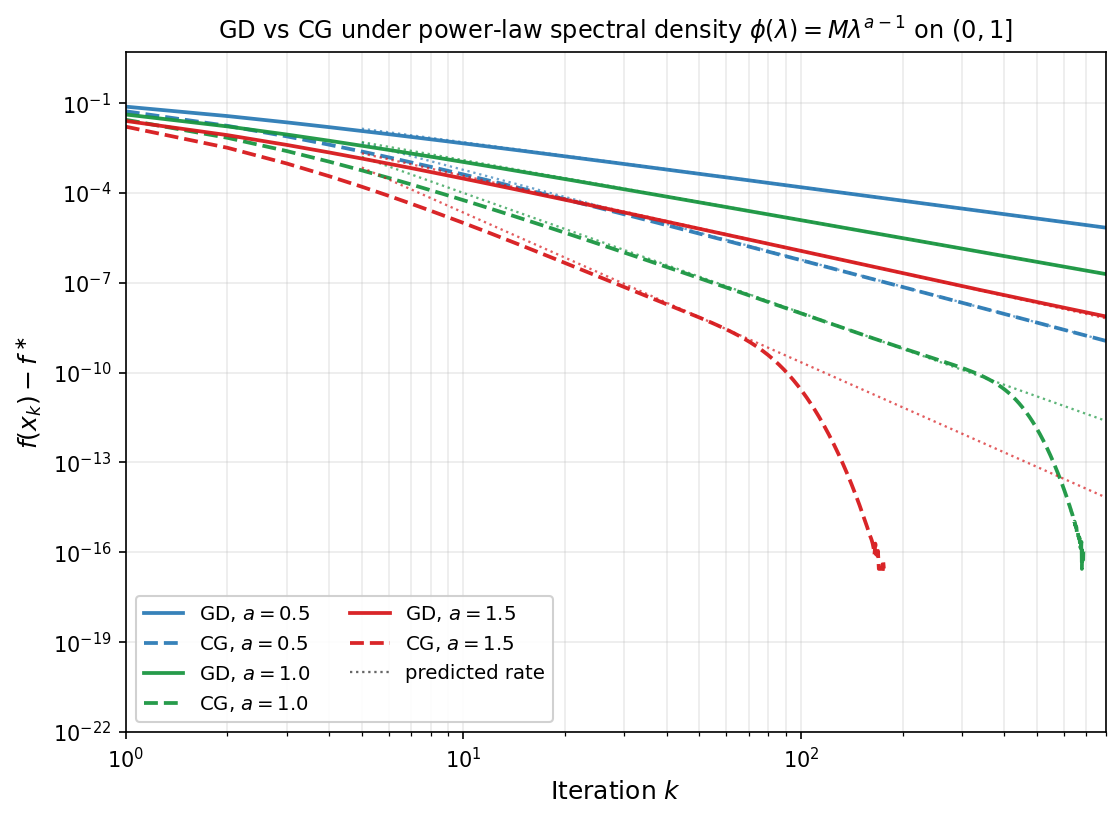
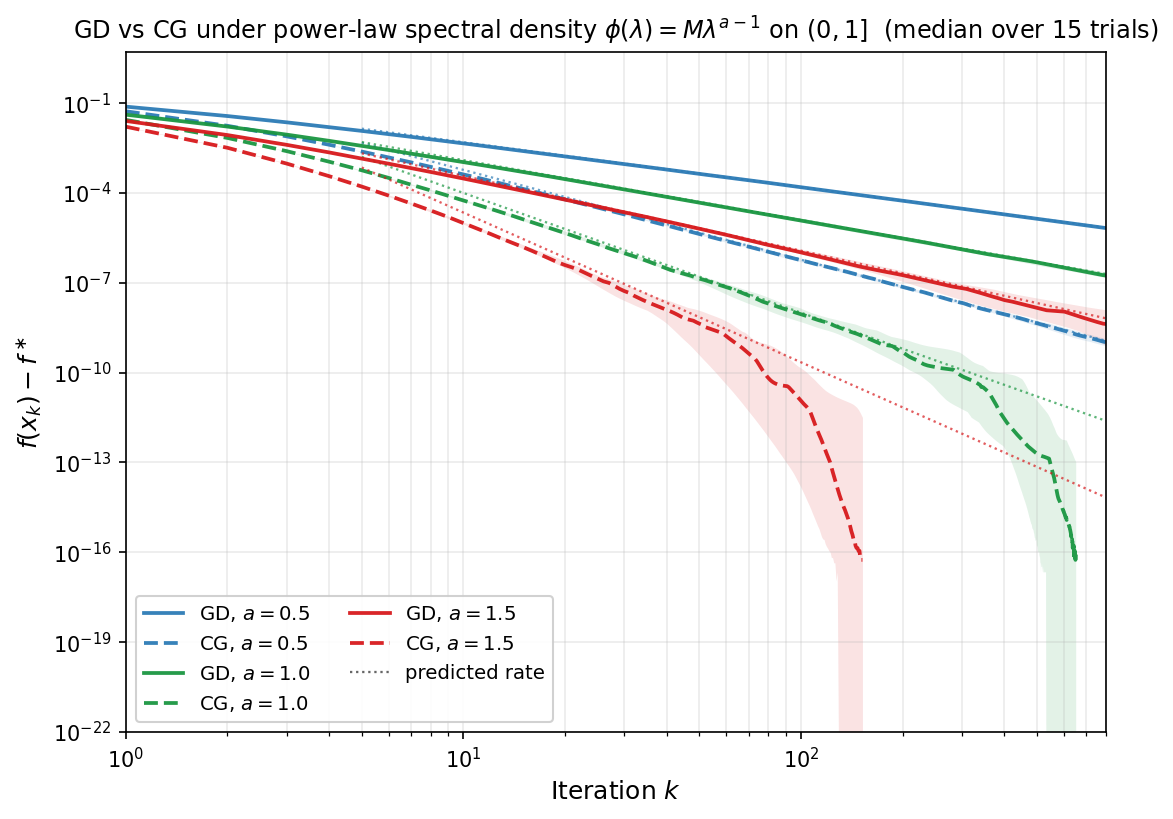
Add median and 10-90% ribbons to power-law convergence figure
Randomise the diagonal problem per trial (eigenvalues iid from phi/integral(phi),
isotropic Gaussian coefficients normalised so the discrete spectral measure
converges to phi(lambda) dlambda in expectation), aggregate over 15 trials,
and plot the median with an interquantile band matching the Marchenko-Pastur
gamma=1 figure. GD bands remain near-invisible (self-averaging) while CG
bands widen in the tail, mirroring the MP critical-case behaviour.

Made-with: Cursor

diff --git a/scripts/plot_convergence_powerlaw.py b/scripts/plot_convergence_powerlaw.py
@@ -10,14 +10,19 @@ several exponents a, overlaid with the predicted asymptotic rates
     GD:  E_k ~ M Gamma(a+1) beta^{a+1} / (2 (2k)^{a+1})            (Thm 7.2)
     CG:  E_k ~ M Gamma(a+1) Gamma(a+2) beta^{a+1} / (2 k^{2(a+1)}) (Thm 7.6)
 
-Setup. We work with a diagonal A = diag(lambda_1, ..., lambda_d) where the
-eigenvalues lambda_i are the (i - 1/2)/d quantiles of the density
-phi(lambda)/integral(phi) on (0, beta] (so the empirical eigenvalue
-distribution is the natural quantile discretisation of the density), and
-initial error coordinates c_i are chosen so that the discrete spectral
-measure sum_i c_i^2 delta_{lambda_i} is the Riemann sum approximation of
-phi(lambda) d lambda. Concretely we take c_i^2 = phi(lambda_i) * w_i where
-w_i is the local quantile width.
+Setup. For each trial we draw a fresh diagonal problem in the eigenbasis:
+
+  * Eigenvalues lambda_i are sampled iid from the density rho = phi/integral(phi)
+    on (0, beta]; concretely lambda_i = beta * U_i^{1/a} for U_i ~ Uniform(0,1).
+  * Initial-error coordinates c_i are sampled iid as c_i = sigma * xi_i with
+    xi_i ~ N(0, 1) and sigma^2 = M * beta^a / (a * d). This normalisation is
+    chosen so that for every continuous test function g,
+        E[sum_i c_i^2 g(lambda_i)] = integral M lambda^{a-1} g(lambda) dlambda,
+    matching the Riemann discretisation used by the deterministic version of
+    this experiment.
+
+We then plot the median curve over n_trials draws and shade the 10%-90%
+interquantile band (same convention as the MP gamma=1 figure).
 """
 
 from __future__ import annotations
@@ -36,33 +41,31 @@ FIGURES_DIR = Path(__file__).resolve().parent.parent / "figures"
 FIGURES_DIR.mkdir(exist_ok=True)
 
 
-def build_powerlaw_problem(a: float, beta: float, d: int, M: float = 1.0):
+def sample_powerlaw_problem(
+    a: float,
+    beta: float,
+    d: int,
+    rng: np.random.Generator,
+    M: float = 1.0,
+):
     """
-    Build A = diag(lambda) and an initial error e0 (in eigenbasis = standard
-    basis) such that the discrete spectral measure sum c_i^2 delta_{lambda_i}
-    is the natural Riemann discretisation of phi(lambda) = M lambda^{a-1} on
-    (0, beta].
+    Sample one random diagonal problem in the eigenbasis with the prescribed
+    power-law spectral error density phi(lambda) = M lambda^{a-1} on (0, beta].
 
-    Eigenvalues placed at quantiles of phi/integral(phi) (which has CDF
-    F(lambda) = (lambda/beta)^a). Quantile widths w_i used to weight c_i^2
-    so that sum c_i^2 g(lambda_i) -> integral M lambda^{a-1} g(lambda) d lambda
-    for any continuous g.
+    Eigenvalues are drawn iid from rho = phi/integral(phi) (CDF
+    F(lambda) = (lambda/beta)^a, inverse CDF lambda = beta * u^{1/a}).
+    Coefficients c_i are drawn iid Gaussian with variance M beta^a / (a d), so
+    that the discrete spectral measure sum_i c_i^2 delta_{lambda_i} converges
+    in expectation to phi(lambda) d lambda as d -> infinity.
     """
     if a <= 0:
         raise ValueError("Use a > 0 so that integral(phi) is finite.")
 
-    # Use cell-centre quantiles u_i = (i - 1/2)/d of the CDF F(lambda) =
-    # (lambda/beta)^a. Inverse CDF gives lambda_i = beta * u_i^{1/a}.
-    u = (np.arange(1, d + 1) - 0.5) / d
+    u = rng.uniform(size=d)
     lam = beta * u ** (1.0 / a)
 
-    # Cell edges u_{i-1} = (i-1)/d, u_i = i/d so that widths w_i = lambda_i^{up}
-    # - lambda_i^{lo} match the Riemann sum normalisation:
-    #   sum_i M lambda_i^{a-1} (lambda_i^{up} - lambda_i^{lo})  ~ integral phi.
-    edges = beta * (np.arange(d + 1) / d) ** (1.0 / a)
-    widths = np.diff(edges)
-    c_sq = M * lam ** (a - 1.0) * widths
-    c = np.sqrt(c_sq)
+    sigma2 = M * beta ** a / (a * d)
+    c = np.sqrt(sigma2) * rng.standard_normal(d)
 
     return lam, c
 
@@ -121,29 +124,44 @@ def main():
     M = 1.0
     d = 20000
     k_max = 800
+    n_trials = 15
+    rng = np.random.default_rng(0)
 
     a_values = [0.5, 1.0, 1.5]
     colors = ["#2c7bb6", "#1a9641", "#d7191c"]
 
     fig, ax = plt.subplots(figsize=(7.6, 5.6))
     iters = np.arange(1, k_max + 1)
+    floor = 1e-22
 
     for a, color in zip(a_values, colors):
-        lam, c = build_powerlaw_problem(a=a, beta=beta, d=d, M=M)
+        gd_runs = np.zeros((n_trials, k_max + 1))
+        cg_runs = np.zeros((n_trials, k_max + 1))
         eta = 1.0 / beta
-        gaps_gd, gaps_cg = run_gd_cg(lam, c, eta, k_max)
+        for t in range(n_trials):
+            lam, c = sample_powerlaw_problem(a=a, beta=beta, d=d, rng=rng, M=M)
+            gaps_gd, gaps_cg = run_gd_cg(lam, c, eta, k_max)
+            gd_runs[t] = np.maximum(gaps_gd, floor)
+            cg_runs[t] = np.maximum(gaps_cg, floor)
+            print(f"  a={a:>3}  trial {t + 1}/{n_trials} done")
 
-        # Truncate CG at machine precision floor to avoid the cliff.
-        floor = 1e-22
-        gd_mask = gaps_gd[1:] > floor
-        cg_mask = gaps_cg[1:] > floor
-        gd_vals = gaps_gd[1:]
-        cg_vals = gaps_cg[1:]
+        gd_med = np.median(gd_runs, axis=0)
+        cg_med = np.median(cg_runs, axis=0)
+        gd_lo, gd_hi = np.quantile(gd_runs, [0.1, 0.9], axis=0)
+        cg_lo, cg_hi = np.quantile(cg_runs, [0.1, 0.9], axis=0)
 
-        ax.loglog(iters[gd_mask], gd_vals[gd_mask], "-", color=color,
+        gd_mask = gd_med[1:] > floor
+        cg_mask = cg_med[1:] > floor
+
+        ax.fill_between(iters[gd_mask], gd_lo[1:][gd_mask], gd_hi[1:][gd_mask],
+                        color=color, alpha=0.12, linewidth=0)
+        ax.loglog(iters[gd_mask], gd_med[1:][gd_mask], "-", color=color,
                   linewidth=1.8, alpha=0.95,
                   label=fr"GD, $a={a}$")
-        ax.loglog(iters[cg_mask], cg_vals[cg_mask], "--", color=color,
+
+        ax.fill_between(iters[cg_mask], cg_lo[1:][cg_mask], cg_hi[1:][cg_mask],
+                        color=color, alpha=0.12, linewidth=0)
+        ax.loglog(iters[cg_mask], cg_med[1:][cg_mask], "--", color=color,
                   linewidth=1.8, alpha=0.95,
                   label=fr"CG, $a={a}$")
 
@@ -162,7 +180,8 @@ def main():
     ax.set_ylabel(r"$f(x_k) - f^\ast$", fontsize=12)
     ax.set_title(
         r"GD vs CG under power-law spectral density "
-        rf"$\phi(\lambda)=M\lambda^{{a-1}}$ on $(0,{beta:g}]$",
+        rf"$\phi(\lambda)=M\lambda^{{a-1}}$ on $(0,{beta:g}]$"
+        + f"  (median over {n_trials} trials)",
         fontsize=11.5,
     )
 
